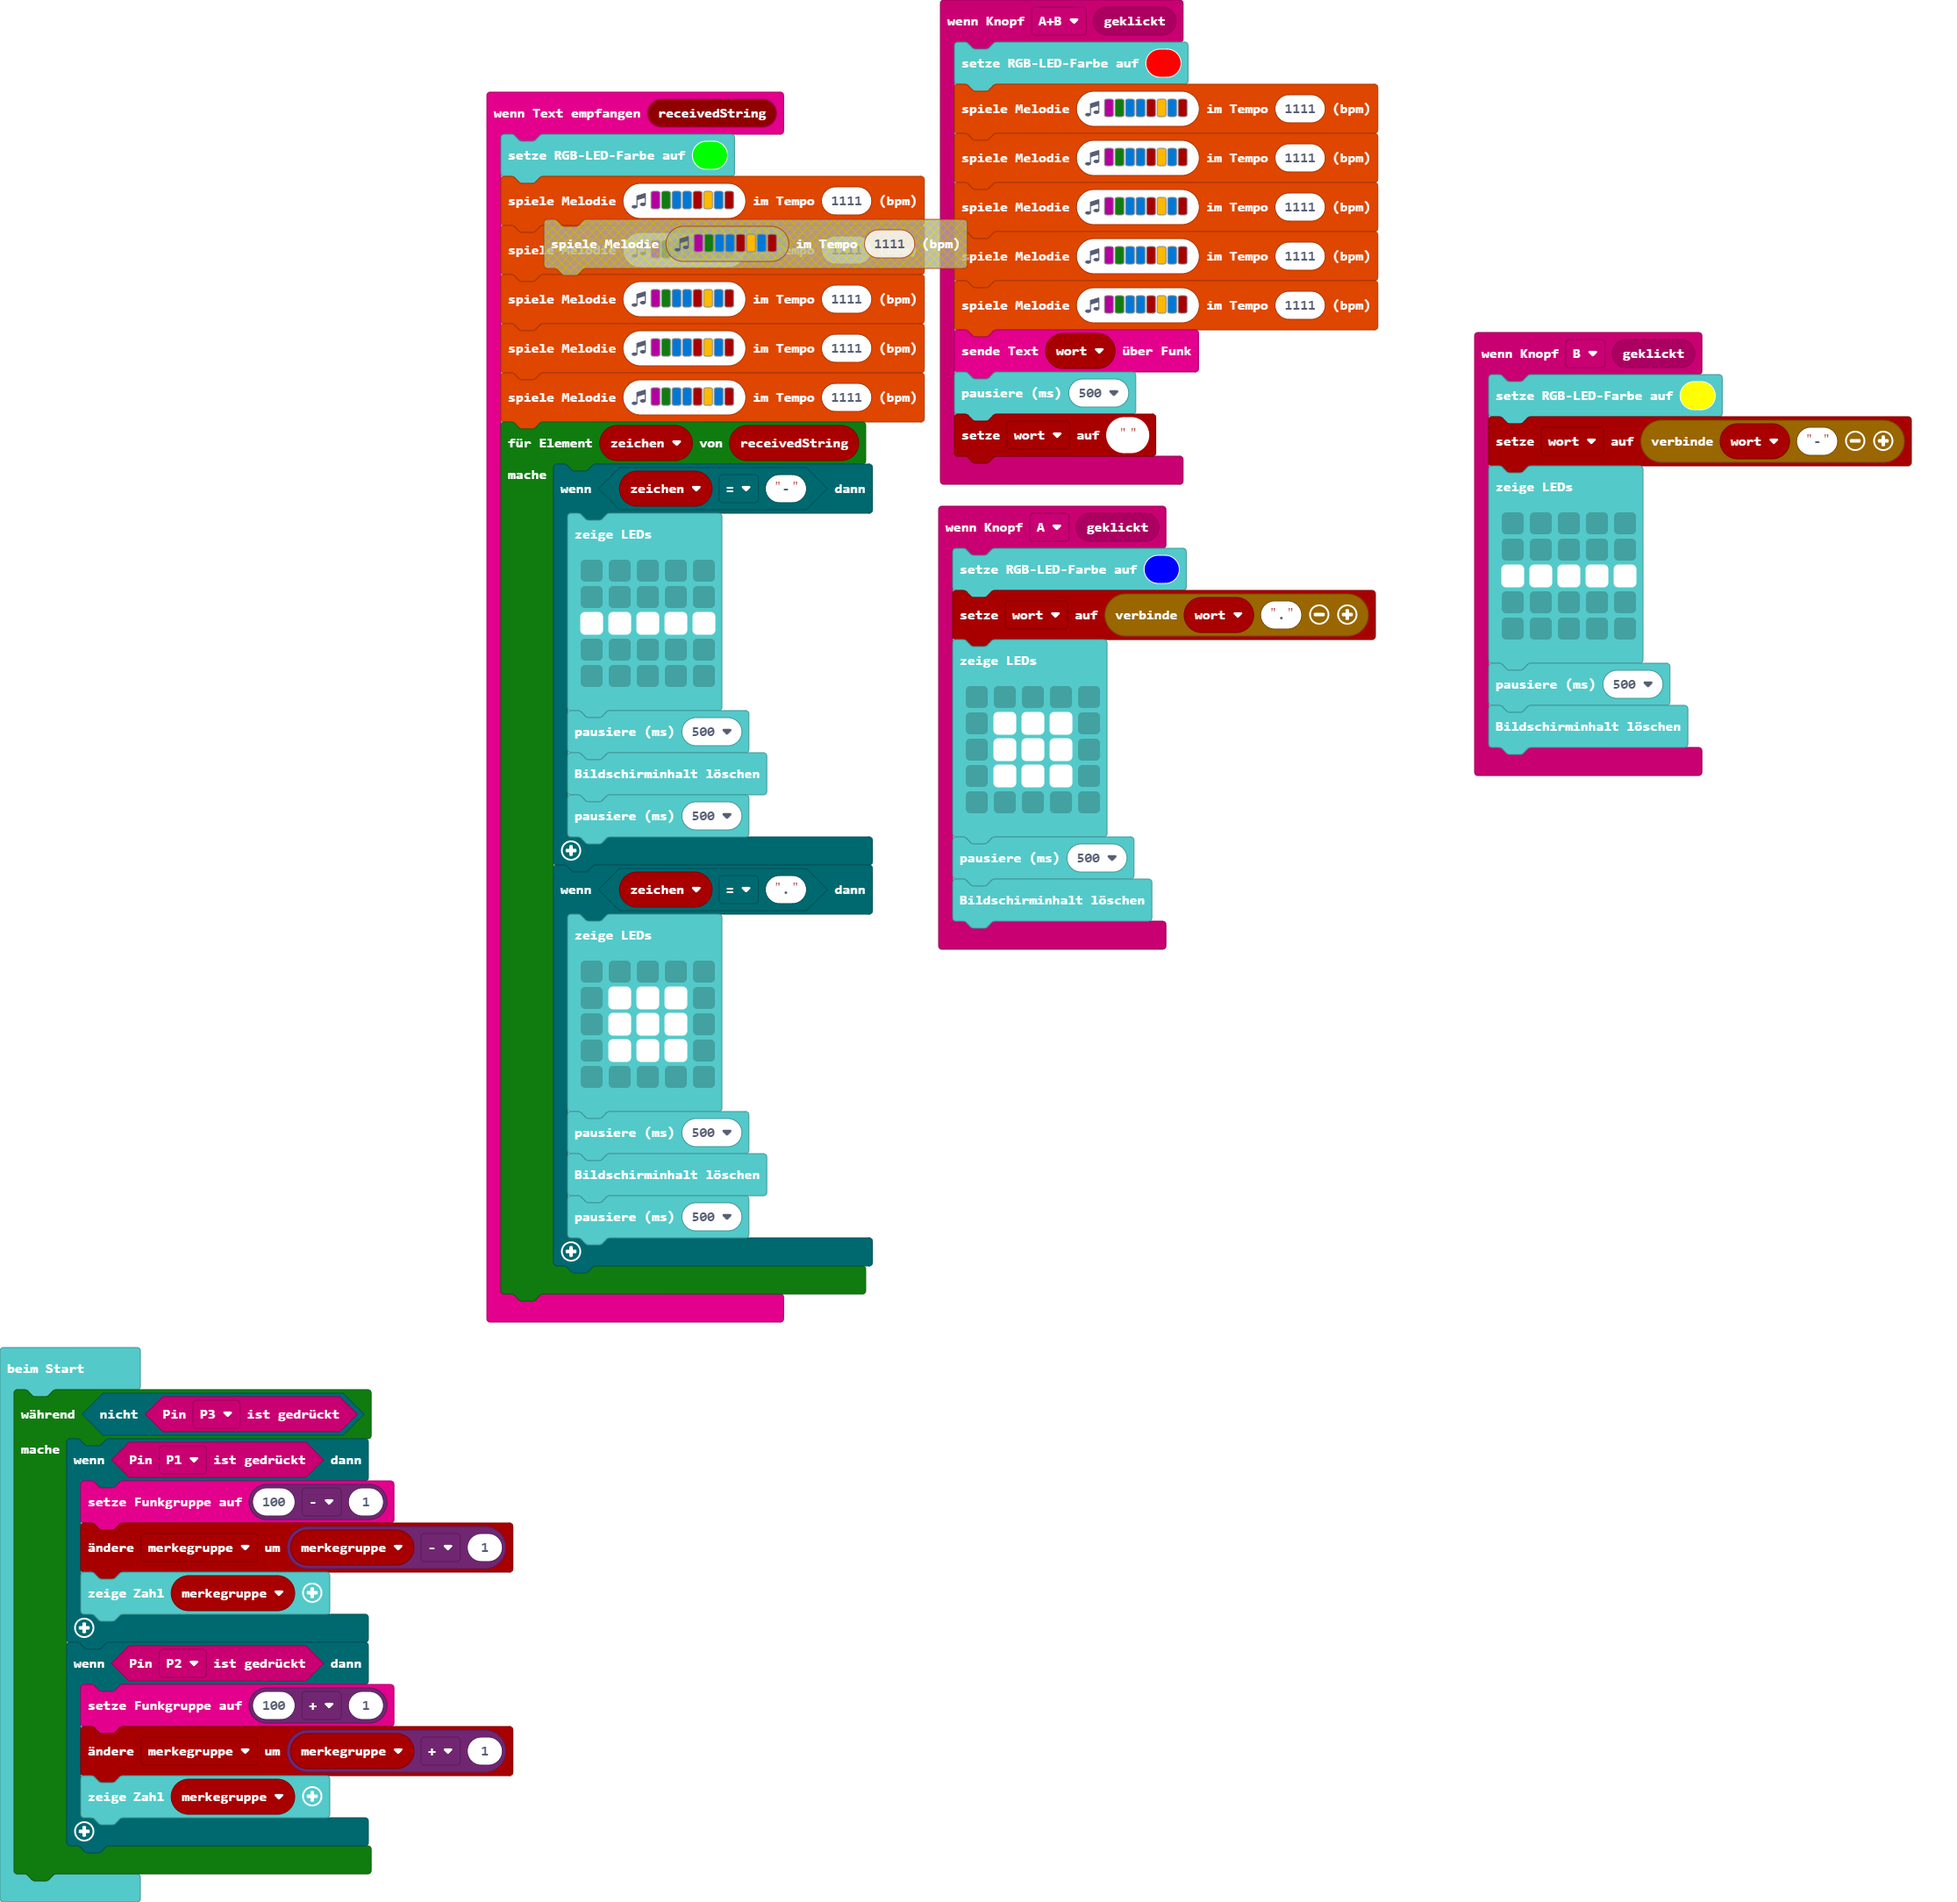
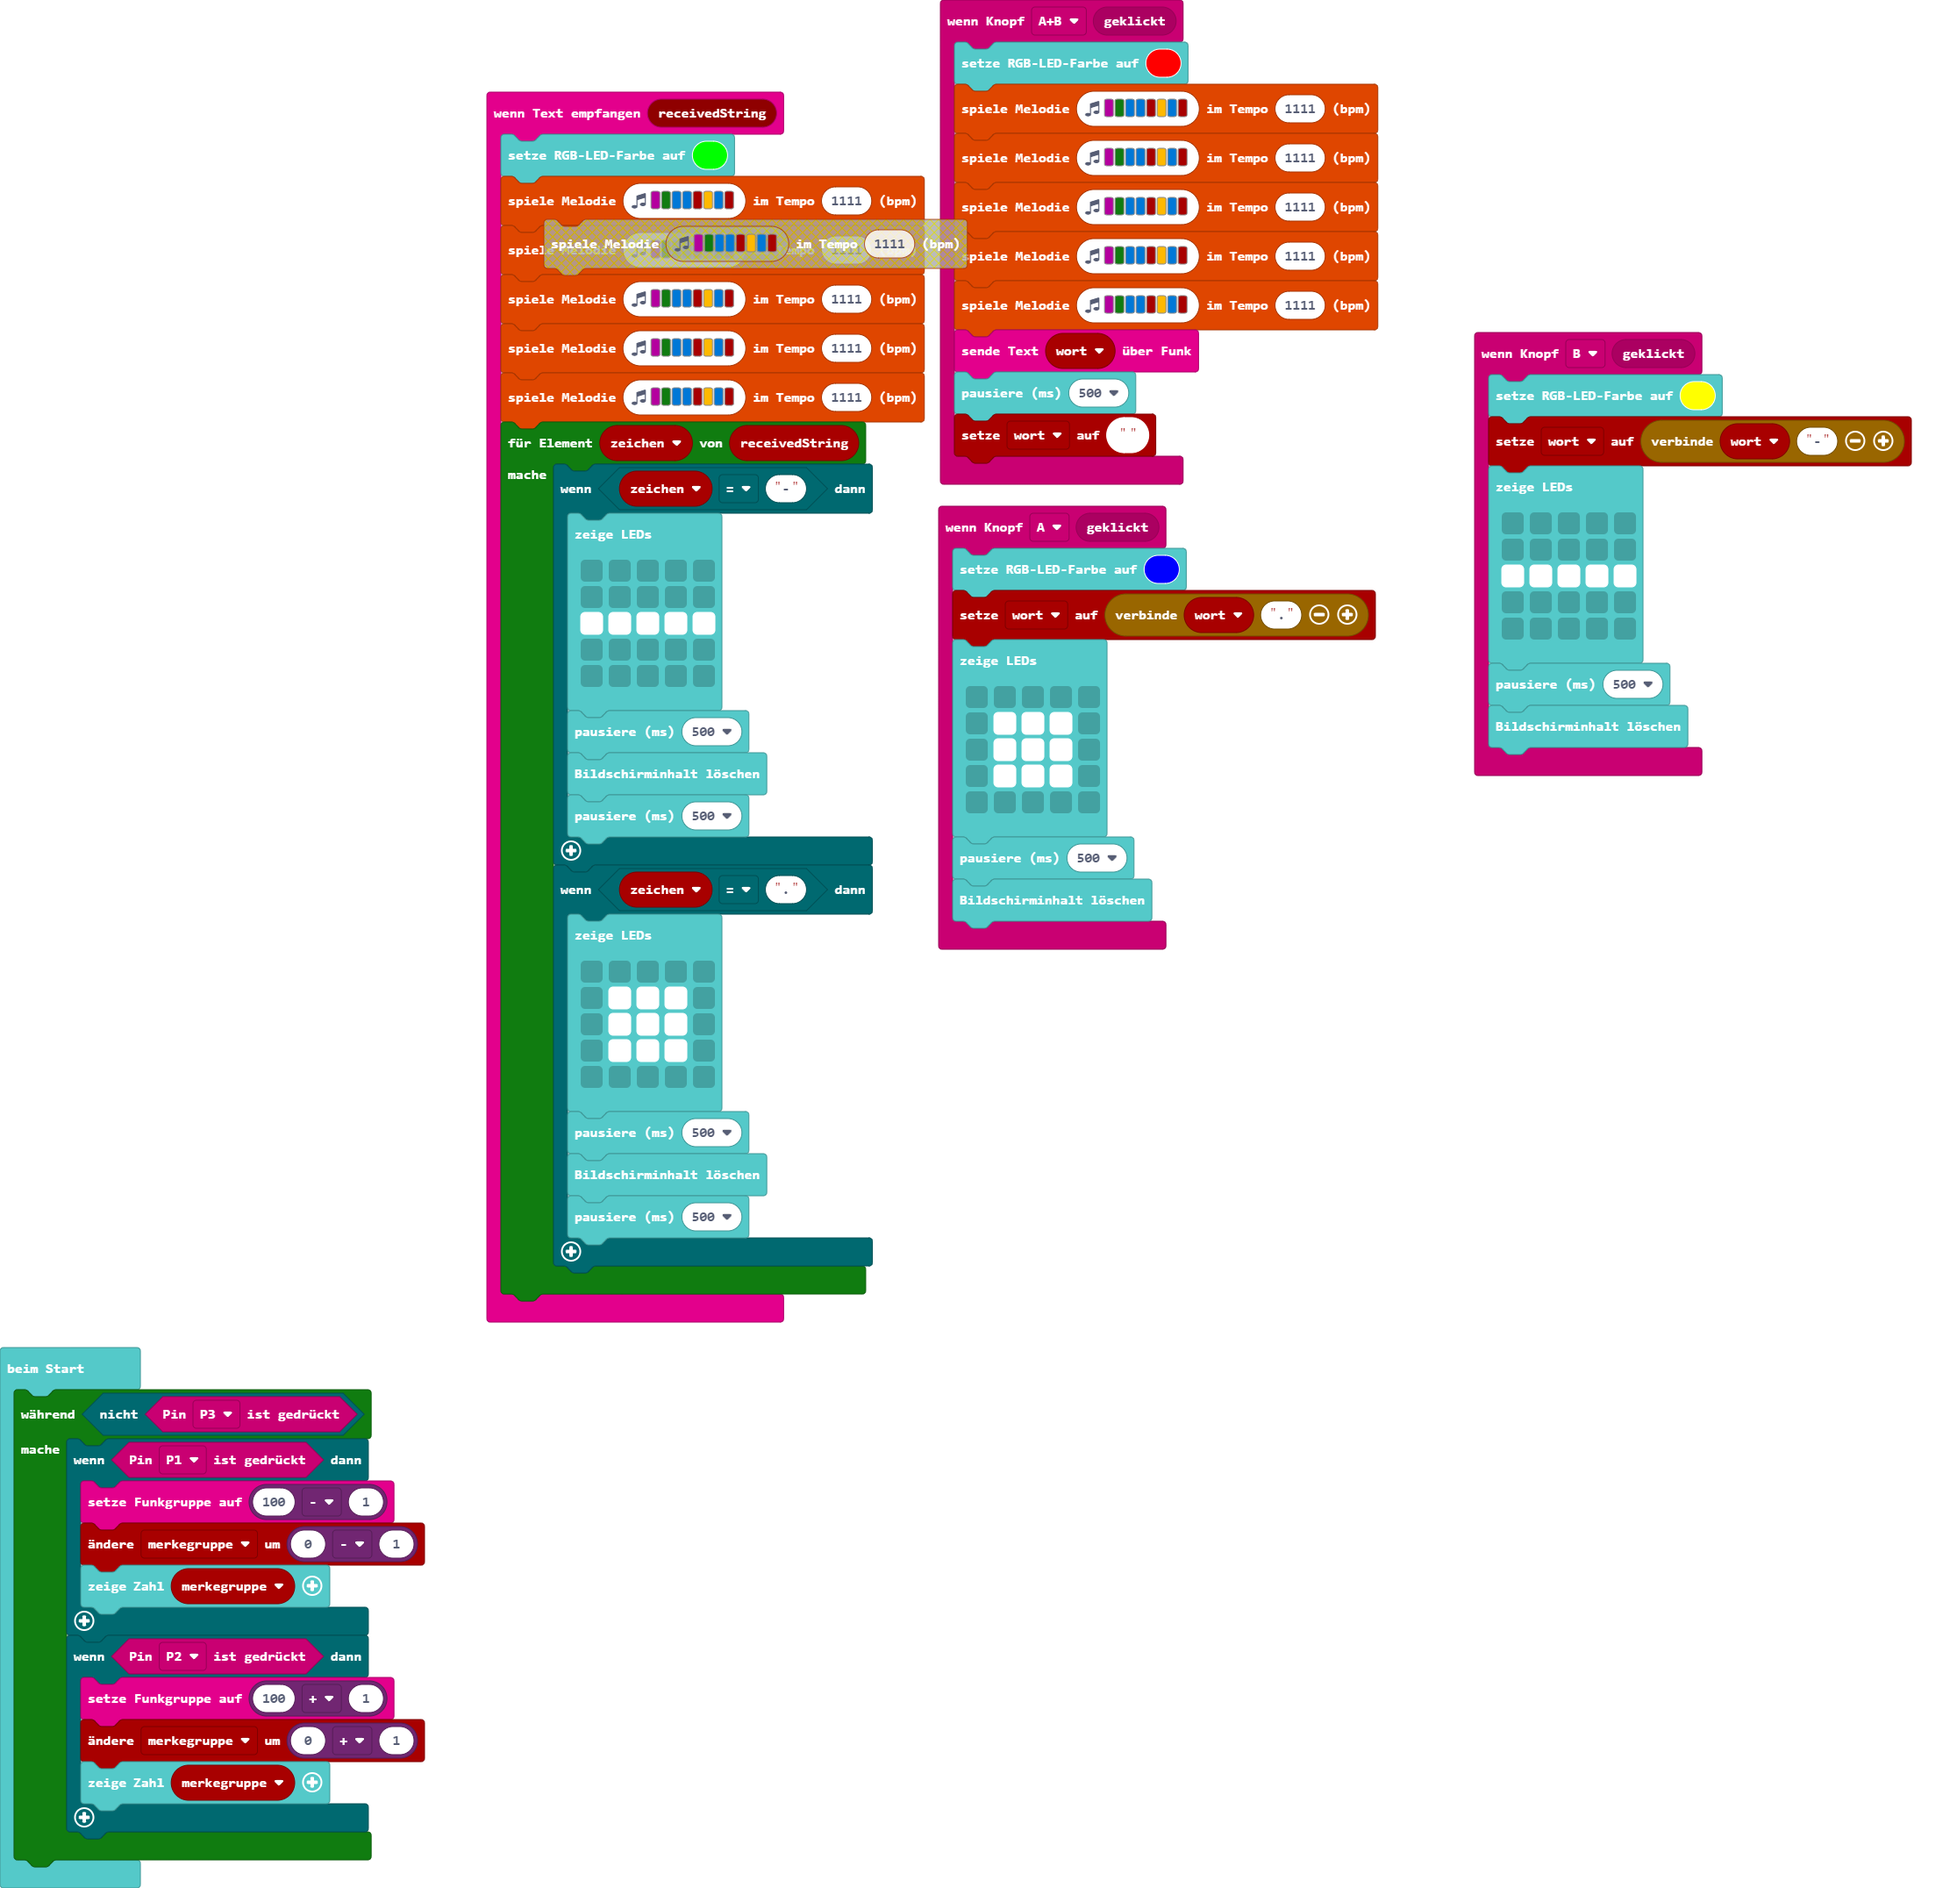
Aktualisiere main.blocks, main.ts

Changed region(s): [[0.2474, 0.0311, 0.7113, 0.7161], [0.0, 0.6849, 0.2784, 0.9651], [0.7423, 0.1557, 0.9897, 0.4359]]

diff --git a/main.ts b/main.ts
@@ -74,12 +74,12 @@ let merkegruppe = 0
 while (!(input.pinIsPressed(TouchPin.P3))) {
     if (input.pinIsPressed(TouchPin.P1)) {
         radio.setGroup(100 - 1)
-        merkegruppe += merkegruppe - 1
+        merkegruppe += 0 - 1
         basic.showNumber(merkegruppe)
     }
     if (input.pinIsPressed(TouchPin.P2)) {
         radio.setGroup(100 + 1)
-        merkegruppe += merkegruppe + 1
+        merkegruppe += 0 + 1
         basic.showNumber(merkegruppe)
     }
 }
